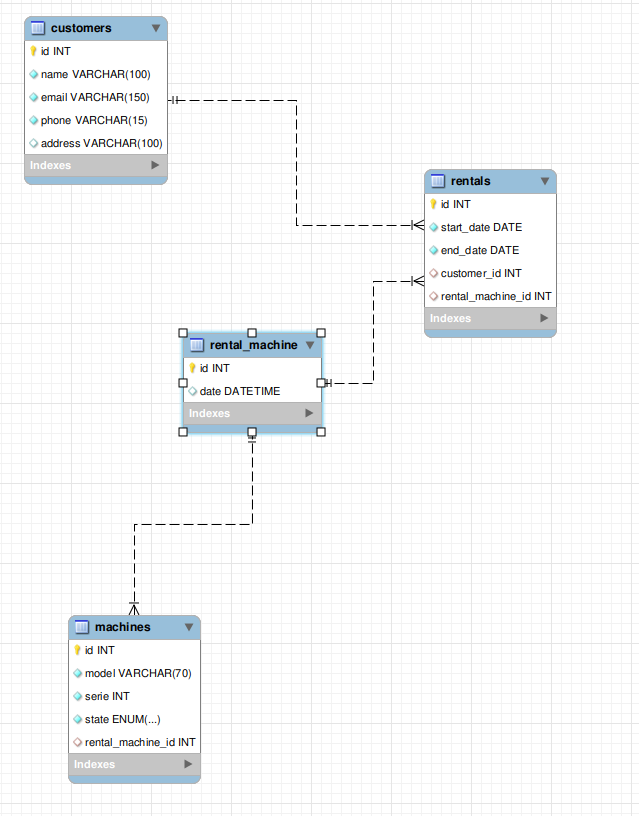
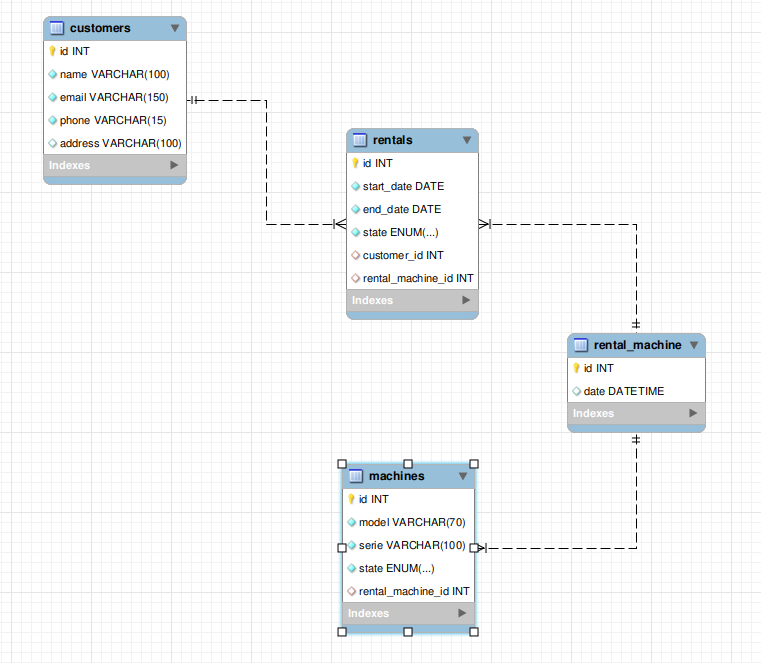
Implementing the Rental model, controller and Menu but still missing

diff --git a/src/main/java/org/globant/entity/Rental.java b/src/main/java/org/globant/entity/Rental.java
@@ -1,0 +1,88 @@
+package org.globant.entity;
+
+import org.globant.helper.RentalStatus;
+
+import java.time.LocalDate;
+
+public class Rental {
+    private int id;
+    private LocalDate start_date;
+    private LocalDate end_date;
+    private RentalStatus status;
+    private int customer_id;
+    private int rental_machine_id;
+
+    //constructor
+
+
+    public Rental() {
+    }
+
+    public Rental(LocalDate start_date, LocalDate end_date, RentalStatus status, int customer_id, int rental_machine_id) {
+        this.start_date = start_date;
+        this.end_date = end_date;
+        this.status = status;
+        this.customer_id = customer_id;
+        this.rental_machine_id = rental_machine_id;
+    }
+
+    public int getId() {
+        return id;
+    }
+
+    public void setId(int id) {
+        this.id = id;
+    }
+
+    public LocalDate getStart_date() {
+        return start_date;
+    }
+
+    public void setStart_date(LocalDate start_date) {
+        this.start_date = start_date;
+    }
+
+    public LocalDate getEnd_date() {
+        return end_date;
+    }
+
+    public void setEnd_date(LocalDate end_date) {
+        this.end_date = end_date;
+    }
+
+    public RentalStatus getStatus() {
+        return status;
+    }
+
+    public void setStatus(RentalStatus status) {
+        this.status = status;
+    }
+
+    public int getCustomer_id() {
+        return customer_id;
+    }
+
+    public void setCustomer_id(int customer_id) {
+        this.customer_id = customer_id;
+    }
+
+    public int getRental_machine_id() {
+        return rental_machine_id;
+    }
+
+    public void setRental_machine_id(int rental_machine_id) {
+        this.rental_machine_id = rental_machine_id;
+    }
+
+    @Override
+    public String toString() {
+        return "Rental{" +
+                "id=" + id +
+                ", start_date=" + start_date +
+                ", end_date=" + end_date +
+                ", status=" + status +
+                ", customer_id=" + customer_id +
+                ", rental_machine_id=" + rental_machine_id +
+                '}';
+    }
+}

diff --git a/src/main/java/org/globant/models/RentalModel.java b/src/main/java/org/globant/models/RentalModel.java
@@ -1,0 +1,58 @@
+package org.globant.models;
+
+import org.globant.database.ConfigDB;
+import org.globant.entity.Machine;
+import org.globant.entity.Rental;
+
+import javax.swing.*;
+import java.sql.Connection;
+import java.sql.PreparedStatement;
+import java.sql.ResultSet;
+import java.sql.SQLException;
+
+public class RentalModel{
+
+    public Rental insert(Rental rental){
+        //1. Open the connection
+        Connection objConnection = ConfigDB.openConnection();
+
+        try{
+
+            //list the customers available
+
+
+            //3. Write the SQL
+            String sql = "INSERT INTO rentals(start_date, end_date, state, customer_id, rental_machine_id) VALUES (?, ?, ?, ?, ?)";
+
+            //4.prepare the Statement, and Add the property RETURN_GENERATED_KEYS that returns the id generated by the database
+            //After de insertion it returns the id of the database generated
+            PreparedStatement objPrepare = objConnection.prepareStatement(sql, PreparedStatement.RETURN_GENERATED_KEYS);
+
+            //5. values of ? ? ?
+            objPrepare.setString(1, rental.getStart_date().toString());
+            objPrepare.setString(2, rental.getEnd_date().toString());
+            objPrepare.setString(3, rental.getStatus().name());
+            objPrepare.setInt(4, rental.getCustomer_id());
+            objPrepare.setInt(5, rental.getRental_machine_id());
+
+            //6. Execute the Query
+            objPrepare.execute();
+
+            //7. Obtain the result with its id(generated id)
+            ResultSet objRest = objPrepare.getGeneratedKeys();
+
+            //8. Loop while there is a register
+            while(objRest.next()){
+                rental.setId(objRest.getInt(1));
+            }
+
+            JOptionPane.showMessageDialog(null, "Rental insertion was successful");
+        }catch (SQLException e){
+            JOptionPane.showMessageDialog(null, e.getMessage());
+        }
+
+        //Close the connection
+        ConfigDB.closeConnection();
+        return rental;
+    }
+}

diff --git a/src/main/java/org/globant/controllers/RentalController.java b/src/main/java/org/globant/controllers/RentalController.java
@@ -1,0 +1,46 @@
+package org.globant.controllers;
+
+import org.globant.entity.Customer;
+import org.globant.entity.Rental;
+import org.globant.helper.RentalStatus;
+import org.globant.models.CustomerModel;
+import org.globant.models.RentalModel;
+
+import javax.swing.*;
+import java.time.LocalDate;
+
+public class RentalController {
+
+    public static void create(){
+        //Use the model
+        RentalModel RentalModel = new RentalModel();
+
+        //List the customers availables
+        JOptionPane.showMessageDialog(null, CustomerController.getAllString());
+        int customerIndex = Integer.parseInt(JOptionPane.showInputDialog("Enter the id of the customer"));
+
+        //List the machines
+        JOptionPane.showMessageDialog(null, MachineController.getAllString());
+        int machineIndex = Integer.parseInt(JOptionPane.showInputDialog("Enter the id of the machine"));
+
+        LocalDate start_date = LocalDate.parse(JOptionPane.showInputDialog("Insert date of begining of the rental format(YYYY-MM-DD)"));
+        LocalDate end_date = LocalDate.parse(JOptionPane.showInputDialog("Insert date of ending of the rental format(YYYY-MM-DD)"));
+
+        Rental rental = new Rental();
+        rental.setStart_date(start_date);
+        rental.setEnd_date(end_date);
+        rental.setCustomer_id(customerIndex);
+        rental.setRental_machine_id(machineIndex);
+
+        //when creating a rental by default the status will be Active
+        rental.setStatus(RentalStatus.ACTIVE);
+
+        //when a rental is created we need to associated the rental_machine, so it have to be created
+
+    }
+
+    public static int createRentalMachine(){
+        RentalModel RentalModel = new RentalModel();
+        return 0;
+    }
+}

diff --git a/src/main/java/org/globant/helper/RentalStatus.java b/src/main/java/org/globant/helper/RentalStatus.java
@@ -1,0 +1,6 @@
+package org.globant.helper;
+
+public enum RentalStatus {
+    ACTIVE,
+    INACTIVE
+}
